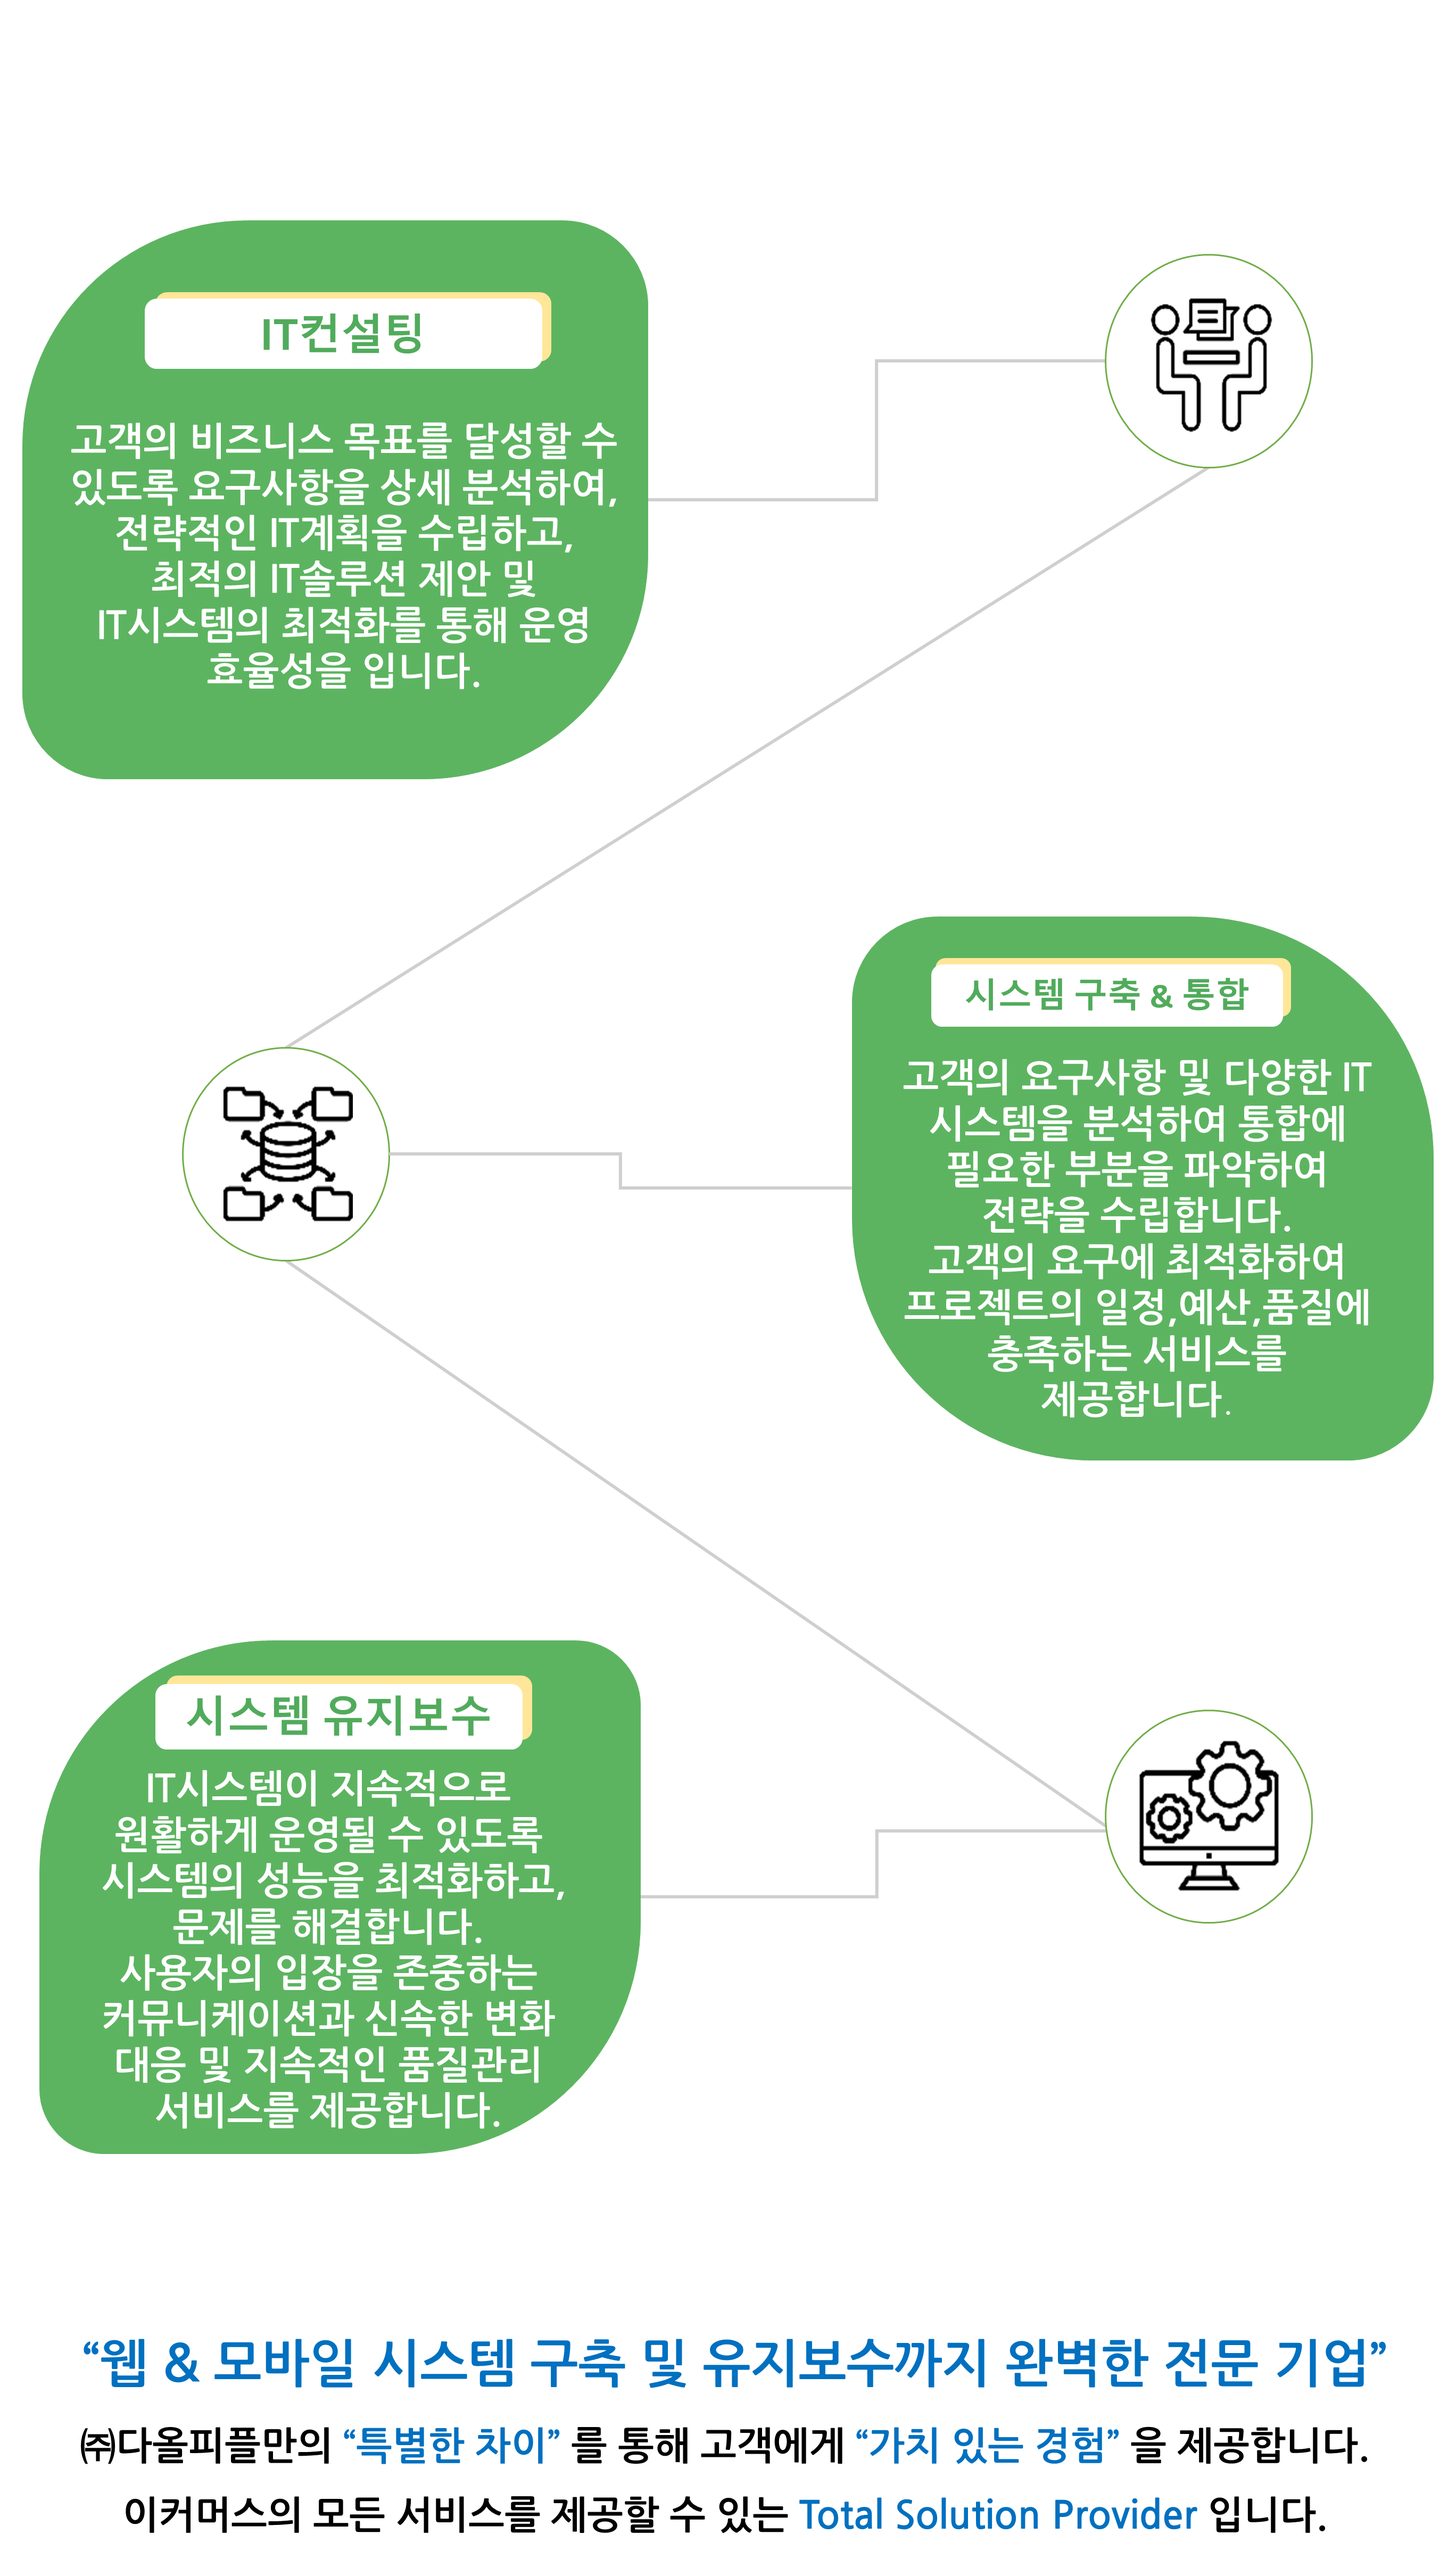
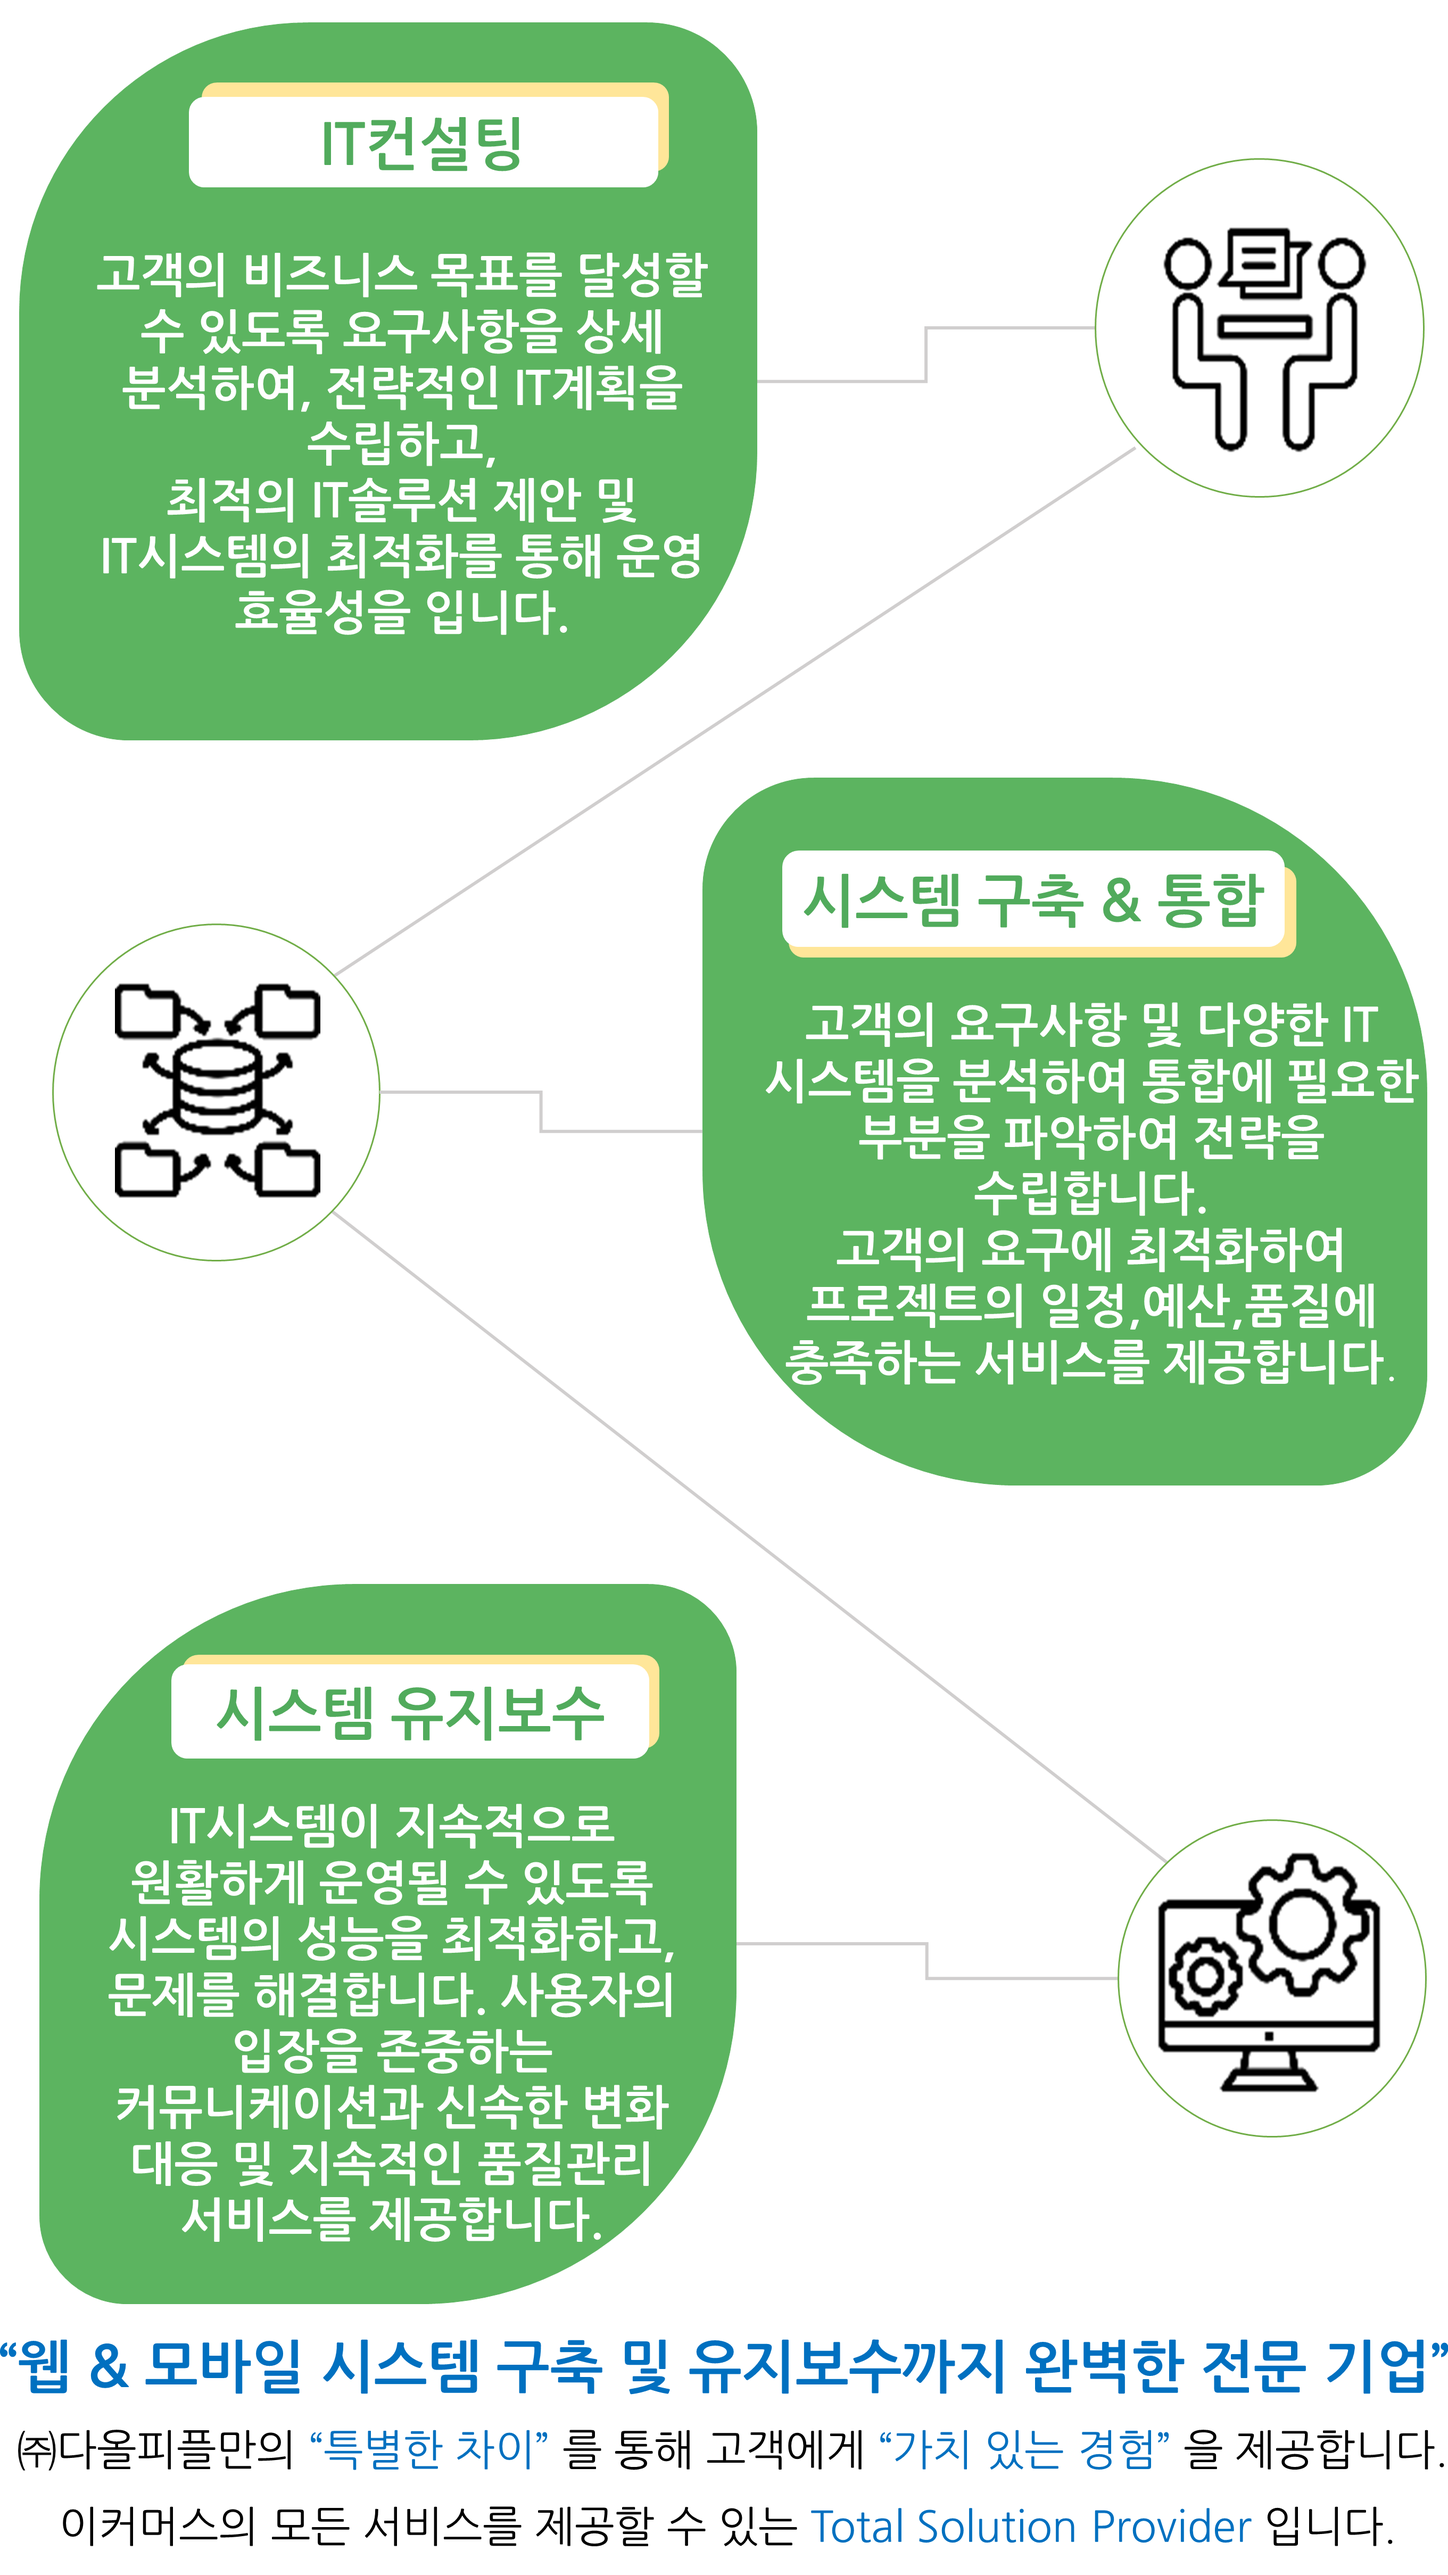
20241008 사업분야 모바일 이미지 수정

diff --git a/src/views/Presentation/Sections/PresentationExample.vue b/src/views/Presentation/Sections/PresentationExample.vue
@@ -30,10 +30,19 @@ import DoppBusiMobile from "@/assets/img/dopp_busi_resize.png"; // 모바일용 
 </template>
 
 <style scoped>
+/* 부모 요소를 중앙 정렬 기준으로 설정 */
+p.lead {
+  position: relative;
+  text-align: center;
+}
+
 /* 기본 이미지 스타일 */
 .responsive-img {
-  max-width: 100%;
-  height: auto;
+  max-width: 120%; /* 부모 요소보다 20% 더 넓게 설정 */
+  height: 120%;
+  display: block;
+  position: relative;
+  left: -10%; /* 120% 중 10%를 왼쪽으로 이동해 중앙에 맞춤 */
   margin-top: 40px;
 }
 </style>
